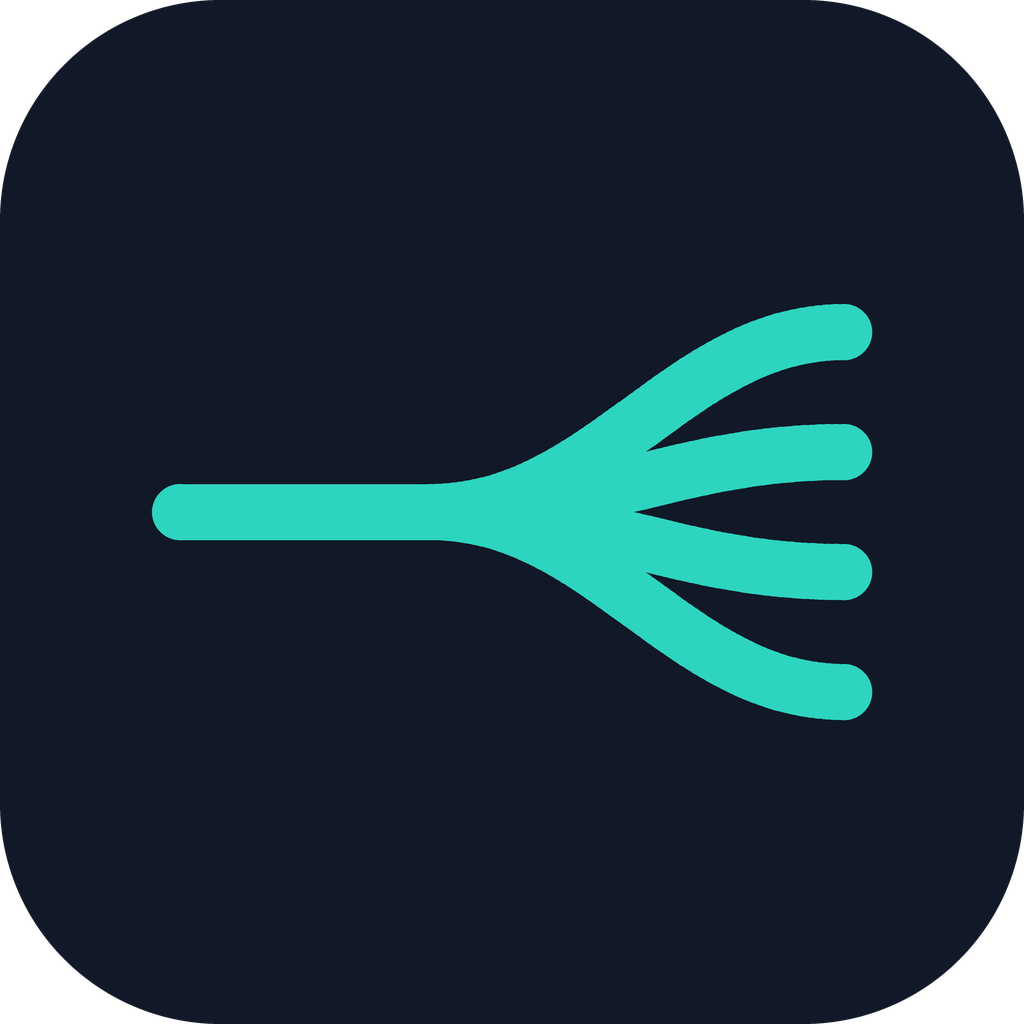
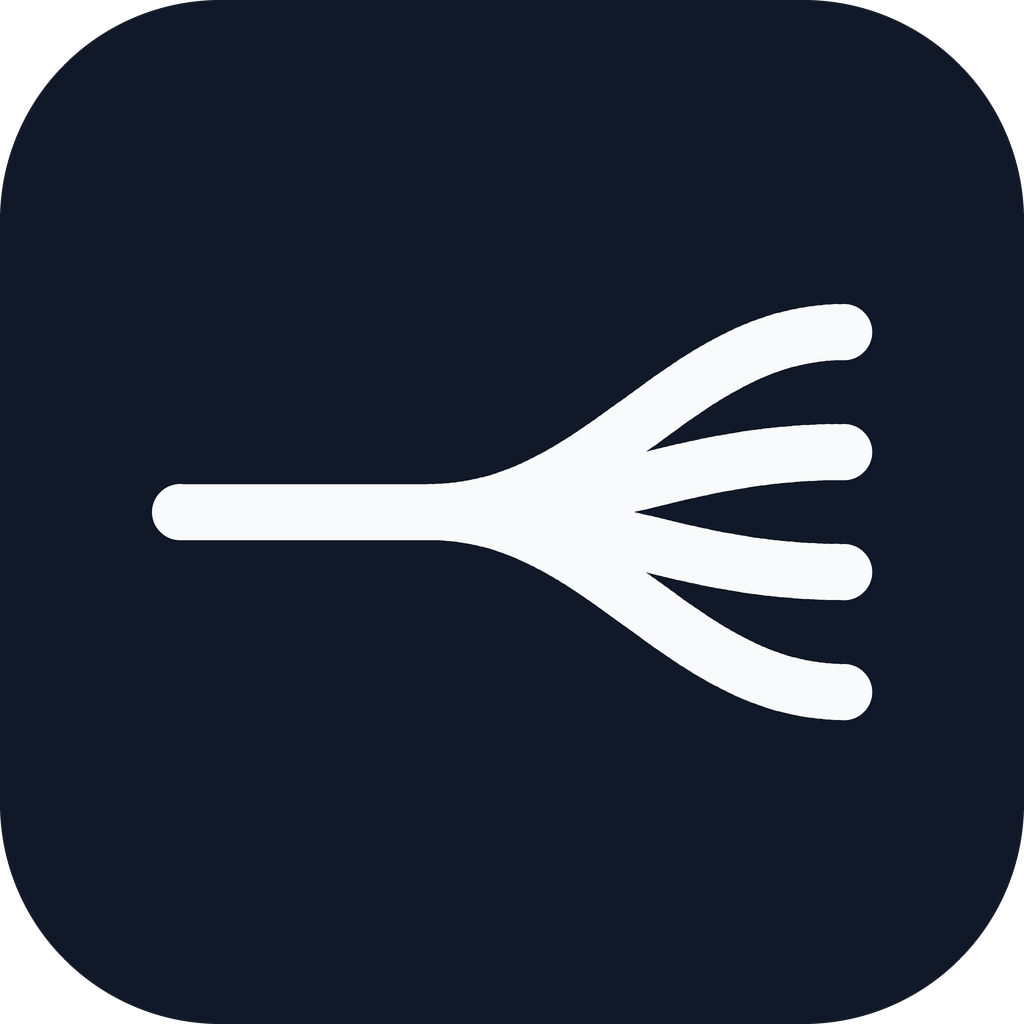
style: monochrome palette

Changed region(s): [[0.125, 0.2812, 0.875, 0.7188]]

diff --git a/assets/make_assets.py b/assets/make_assets.py
@@ -15,7 +15,7 @@ HERE = os.path.dirname(os.path.abspath(__file__))
 SIZE = 1024
 SCALE = 4
 BG = "#111827"
-ACCENT = "#2DD4BF"
+LINE = "#F9FAFB"
 TEXT = "#F9FAFB"
 RADIUS = 220
 STROKE = 56
@@ -43,15 +43,15 @@ def draw_mark(draw, s):
     r = w / 2
 
     def dot(x, y):
-        draw.ellipse((x * s - r, y * s - r, x * s + r, y * s + r), fill=ACCENT)
+        draw.ellipse((x * s - r, y * s - r, x * s + r, y * s + r), fill=LINE)
 
-    draw.line((X0 * s, Y_MID * s, X_SPLIT * s, Y_MID * s), fill=ACCENT, width=round(w))
+    draw.line((X0 * s, Y_MID * s, X_SPLIT * s, Y_MID * s), fill=LINE, width=round(w))
     dot(X0, Y_MID)
     dot(X_SPLIT, Y_MID)
     for y_end in Y_ENDS:
         ctrl = branch_ctrl(y_end)
         pts = [bezier(*ctrl, i / STEPS) for i in range(STEPS + 1)]
-        draw.line([(x * s, y * s) for x, y in pts], fill=ACCENT, width=round(w))
+        draw.line([(x * s, y * s) for x, y in pts], fill=LINE, width=round(w))
         for x, y in pts:
             dot(x, y)
 
@@ -72,7 +72,7 @@ def write_svg(path):
         parts.append(f"M {X_SPLIT} {Y_MID} C {C1_X} {Y_MID}, {C2_X} {y_end}, {X_END} {y_end}")
     d = " ".join(parts)
     svg = f"""<svg xmlns="http://www.w3.org/2000/svg" viewBox="0 0 3200 1024" width="400" height="128">
-  <path d="{d}" fill="none" stroke="{ACCENT}" stroke-width="{STROKE}" stroke-linecap="round" stroke-linejoin="round"/>
+  <path d="{d}" fill="none" stroke="{LINE}" stroke-width="{STROKE}" stroke-linecap="round" stroke-linejoin="round"/>
   <text x="1000" y="640" font-family="Inter, Helvetica Neue, Arial, sans-serif" font-weight="600" font-size="400" fill="{TEXT}">splitwave</text>
 </svg>
 """
@@ -81,14 +81,26 @@ def write_svg(path):
 
 
 THEME_MAP = {
-    "#3B8ED0": "#2DD4BF",
-    "#1F6AA5": "#2DD4BF",
-    "#36719F": "#14B8A6",
-    "#144870": "#0D9488",
-    "#3a7ebf": "#2DD4BF",
-    "#325882": "#0D9488",
-    "#1f538d": "#2DD4BF",
-    "#14375e": "#0D9488",
+    "#3B8ED0": "#F3F4F6",
+    "#1F6AA5": "#F3F4F6",
+    "#36719F": "#D1D5DB",
+    "#144870": "#9CA3AF",
+    "#3a7ebf": "#F3F4F6",
+    "#325882": "#9CA3AF",
+    "#1f538d": "#F3F4F6",
+    "#14375e": "#9CA3AF",
+}
+
+
+# 흑백 팔레트: 흰 바탕 위엔 어두운 글자, 회색 바탕 위엔 흰 글자
+THEME_OVERRIDES = {
+    "CTkButton": {"fg_color": "#F3F4F6", "hover_color": "#D1D5DB", "text_color": "#0B1220"},
+    "CTkOptionMenu": {"fg_color": "#374151", "button_color": "#4B5563",
+                      "button_hover_color": "#6B7280", "text_color": "#F9FAFB"},
+    "CTkSegmentedButton": {"selected_color": "#6B7280", "selected_hover_color": "#9CA3AF",
+                           "text_color": "#F9FAFB"},
+    "CTkCheckBox": {"fg_color": "#F3F4F6", "hover_color": "#D1D5DB", "checkmark_color": "#0B1220"},
+    "CTkProgressBar": {"progress_color": "#F3F4F6"},
 }
 
 
@@ -99,7 +111,9 @@ def write_theme(path):
     for old, new in THEME_MAP.items():
         text = re.sub(re.escape(old), new, text, flags=re.IGNORECASE)
     theme = json.loads(text)
-    theme["CTkButton"]["text_color"] = ["#0B1220", "#0B1220"]
+    for widget, colors in THEME_OVERRIDES.items():
+        for key, value in colors.items():
+            theme[widget][key] = [value, value]
     with open(path, "w", encoding="utf-8") as f:
         json.dump(theme, f, indent=2)
         f.write("\n")

diff --git a/tests/test_assets.py b/tests/test_assets.py
@@ -21,3 +21,8 @@ def test_theme_json_recolored():
         text = f.read()
     json.loads(text)
     assert "#3B8ED0" not in text.upper()
+
+
+def test_theme_json_has_no_teal():
+    with open(os.path.join(ASSETS, "theme.json"), encoding="utf-8") as f:
+        assert "#2DD4BF" not in f.read().upper()
